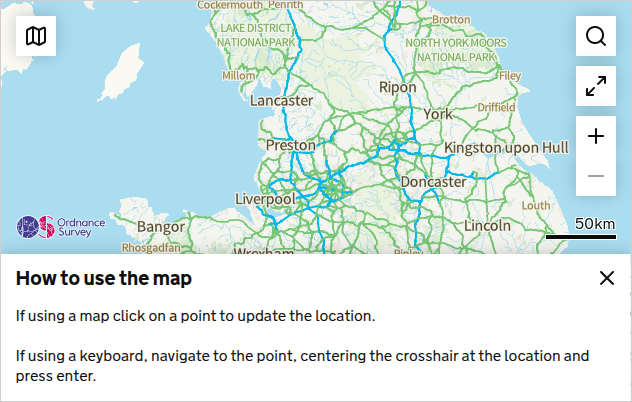
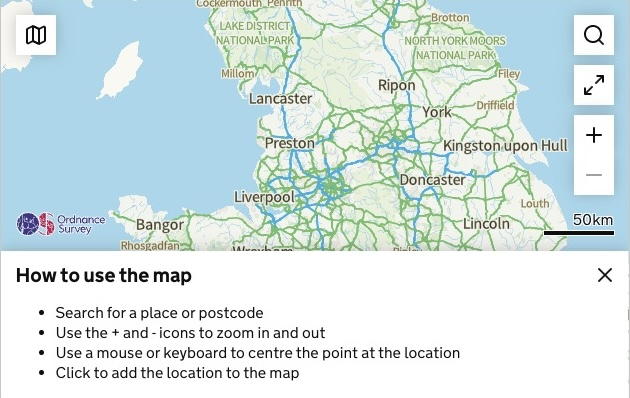
feat(DF-952): align designer with new map guidance (#1431)
* feat(DF-952): align designer with new map guidance from engine 4.11.3

Bumps @user/forms-engine-plugin to ^4.11.3, replaces the 4 location-field default instruction texts with the shared 4-step pattern shown by the engine's map info panel, and updates the location-field preview image.

* fix: trim image whitespace

Pull request: feat(DF-952): align designer with new map guidance
Bumps engine to ^4.11.3, switches the four location-field default instructions to the shared 4-step map pattern, and refreshes the location preview image.

diff --git a/designer/server/src/models/forms/editor-v2/location-instruction-defaults.test.js b/designer/server/src/models/forms/editor-v2/location-instruction-defaults.test.js
@@ -7,40 +7,27 @@ import {
 
 describe('location-instruction-defaults', () => {
   describe('locationInstructionDefaults', () => {
-    it('should have instruction defaults for EastingNorthingField', () => {
-      expect(locationInstructionDefaults.EastingNorthingField).toContain(
-        'Use the [MAGIC map tool](https://magic.defra.gov.uk/)'
-      )
-      expect(locationInstructionDefaults.EastingNorthingField).toContain(
-        'Easting and Northing'
-      )
-    })
+    const expectedSteps = [
+      '1. Search for a place or postcode.',
+      '2. Use the + and - icons to zoom in and out.',
+      '3. Use a mouse or keyboard to centre the point at the location.',
+      '4. Click to add the location to the map.'
+    ]
 
-    it('should have instruction defaults for OsGridRefField', () => {
-      expect(locationInstructionDefaults.OsGridRefField).toContain(
-        'Use the [Ordnance Survey](https://explore.osmaps.com/)'
-      )
-      expect(locationInstructionDefaults.OsGridRefField).toContain(
-        'OS grid reference'
-      )
-    })
+    it.each([
+      ['EastingNorthingField'],
+      ['OsGridRefField'],
+      ['NationalGridFieldNumberField'],
+      ['LatLongField']
+    ])('should have the 4-step map instructions for %s', (fieldType) => {
+      const instructions =
+        locationInstructionDefaults[
+          /** @type {keyof typeof locationInstructionDefaults} */ (fieldType)
+        ]
 
-    it('should have instruction defaults for NationalGridFieldNumberField', () => {
-      expect(
-        locationInstructionDefaults.NationalGridFieldNumberField
-      ).toContain('Use the [MAGIC map tool](https://magic.defra.gov.uk/)')
-      expect(
-        locationInstructionDefaults.NationalGridFieldNumberField
-      ).toContain('National Grid field number')
-    })
-
-    it('should have instruction defaults for LatLongField', () => {
-      expect(locationInstructionDefaults.LatLongField).toContain(
-        'Use the [MAGIC map tool](https://magic.defra.gov.uk/)'
-      )
-      expect(locationInstructionDefaults.LatLongField).toContain(
-        'latitude and longitude'
-      )
+      for (const step of expectedSteps) {
+        expect(instructions).toContain(step)
+      }
     })
   })
 

diff --git a/designer/server/src/models/forms/editor-v2/location-instruction-defaults.js b/designer/server/src/models/forms/editor-v2/location-instruction-defaults.js
@@ -2,39 +2,18 @@
  * Default instruction texts for precise location field types
  */
 
+const defaultLocationInstructions = `Follow these instructions:
+
+1. Search for a place or postcode.
+2. Use the + and - icons to zoom in and out.
+3. Use a mouse or keyboard to centre the point at the location.
+4. Click to add the location to the map.`
+
 export const locationInstructionDefaults = {
-  EastingNorthingField: `Use the [MAGIC map tool](https://magic.defra.gov.uk/) to find the Easting and Northing for your land or buildings. Follow these instructions:
-
-  1. Select 'Get Started'.
-  2. Search for a postcode or place.
-  3. Using the map, locate the land or building. Use the +/- icons to zoom in and out.
-  4. In the top toolbar, select the fourth icon along ('Where am I?') - it looks like a target.
-  5. Click on the land or building.
-  6. A pop-up box will appear showing the land details for this location. Easting and Northing appear at the top of the list. Easting can be up to 6 digits (0-700000) and Northing up to 7 digits (0-1300000), for example, 248741 and 63688.`,
-
-  OsGridRefField: `Use the [Ordnance Survey](https://explore.osmaps.com/). Follow these instructions:
-
-1. Search for a county, place or postcode.
-2. Using the map, locate the field or building. Use the +/- icons to zoom in and out.
-3. Right click on each individual building or field to find the OS grid reference.`,
-
-  NationalGridFieldNumberField: `Use the [MAGIC map tool](https://magic.defra.gov.uk/) to find the National Grid field number for your land or buildings. Follow these instructions:
-
-  1. Select 'Get Started'.
-  2. Search for a postcode or place.
-  3. Using the map, locate the land or building. Use the +/- icons to zoom in and out.
-  4. In the top toolbar, select the fourth icon along ('Where am I?') - it looks like a target.
-  5. Click on the land or building.
-  6. A pop-up box will appear showing the land details for this location. The National Grid field number is the third number from the top of the list. It is made up of 2 letters and 8 numbers, for example, NG 1234 5678.`,
-
-  LatLongField: `Use the [MAGIC map tool](https://magic.defra.gov.uk/) to find the latitude and longitude for your land or buildings. Follow these instructions:
-
-  1. Select 'Get Started'.
-  2. Search for a postcode or place.
-  3. Using the map, locate the land or building. Use the +/- icons to zoom in and out.
-  4. In the top toolbar, select the fourth icon along ('Where am I?') - it looks like a target.
-  5. Click on the land or building.
-  6. A pop-up box will appear showing the land details for this location. The latitude and longitude are four numbers down from the top of the list.`
+  EastingNorthingField: defaultLocationInstructions,
+  OsGridRefField: defaultLocationInstructions,
+  NationalGridFieldNumberField: defaultLocationInstructions,
+  LatLongField: defaultLocationInstructions
 }
 
 /**

diff --git a/designer/server/src/models/forms/editor-v2/question-details-advanced-settings.test.js b/designer/server/src/models/forms/editor-v2/question-details-advanced-settings.test.js
@@ -419,8 +419,8 @@ describe('editor-v2 - question details advanced settings model', () => {
       })
       const result = advancedSettingsFields(['instructionText'], question)
       expect(result).toHaveLength(1)
-      expect(result[0].value).toContain('MAGIC map tool')
-      expect(result[0].value).toContain('Easting and Northing')
+      expect(result[0].value).toContain('Search for a place or postcode')
+      expect(result[0].value).toContain('Click to add the location to the map')
     })
 
     test('should use validation value over default for location instruction', () => {
@@ -610,8 +610,8 @@ describe('editor-v2 - question details advanced settings model', () => {
       expect(result[0].items?.[0].checked).toBe(false)
 
       // Verify instructionText has default content
-      expect(result[1].value).toContain('MAGIC map tool')
-      expect(result[1].value).toContain('Easting and Northing')
+      expect(result[1].value).toContain('Search for a place or postcode')
+      expect(result[1].value).toContain('Click to add the location to the map')
     })
   })
 })

diff --git a/designer/server/src/models/forms/editor-v2/advanced-settings-helpers.test.js b/designer/server/src/models/forms/editor-v2/advanced-settings-helpers.test.js
@@ -6,6 +6,7 @@ import {
   isValueOrZero,
   mapExtraRootFields
 } from '~/src/models/forms/editor-v2/advanced-settings-helpers.js'
+import { locationInstructionDefaults } from '~/src/models/forms/editor-v2/location-instruction-defaults.js'
 
 describe('advanced-settings-helpers', () => {
   describe('getAdditionalOptions', () => {
@@ -124,8 +125,7 @@ describe('advanced-settings-helpers', () => {
       const result = getAdditionalOptions({
         questionType: ComponentType.EastingNorthingField,
         giveInstructions: 'true',
-        instructionText:
-          "Use the [MAGIC map tool](https://magic.defra.gov.uk/) to find the Easting and Northing for your land or buildings. Follow these instructions:\n\n  1. Select 'Get Started'.\n  2. Search for a postcode or place.\n  3. Using the map, locate the land or building. Use the +/- icons to zoom in and out.\n  4. In the top toolbar, select the fourth icon along ('Where am I?') - it looks like a target.\n  5. Click on the land or building.\n  6. A pop-up box will appear showing the land details for this location. Easting and Northing appear at the top of the list. Easting can be up to 6 digits (0-700000) and Northing up to 7 digits (0-1300000), for example, 248741 and 63688."
+        instructionText: locationInstructionDefaults.EastingNorthingField
       })
 
       // Should not include instructionText as it matches EastingNorthingField default
@@ -136,8 +136,7 @@ describe('advanced-settings-helpers', () => {
       const result = getAdditionalOptions({
         questionType: ComponentType.LatLongField,
         giveInstructions: 'true',
-        instructionText:
-          "Use the [MAGIC map tool](https://magic.defra.gov.uk/) to find the latitude and longitude for your land or buildings. Follow these instructions:\n\n  1. Select 'Get Started'.\n  2. Search for a postcode or place.\n  3. Using the map, locate the land or building. Use the +/- icons to zoom in and out.\n  4. In the top toolbar, select the fourth icon along ('Where am I?') - it looks like a target.\n  5. Click on the land or building.\n  6. A pop-up box will appear showing the land details for this location. The latitude and longitude are four numbers down from the top of the list."
+        instructionText: locationInstructionDefaults.LatLongField
       })
 
       // Should not include instructionText as it matches LatLongField default